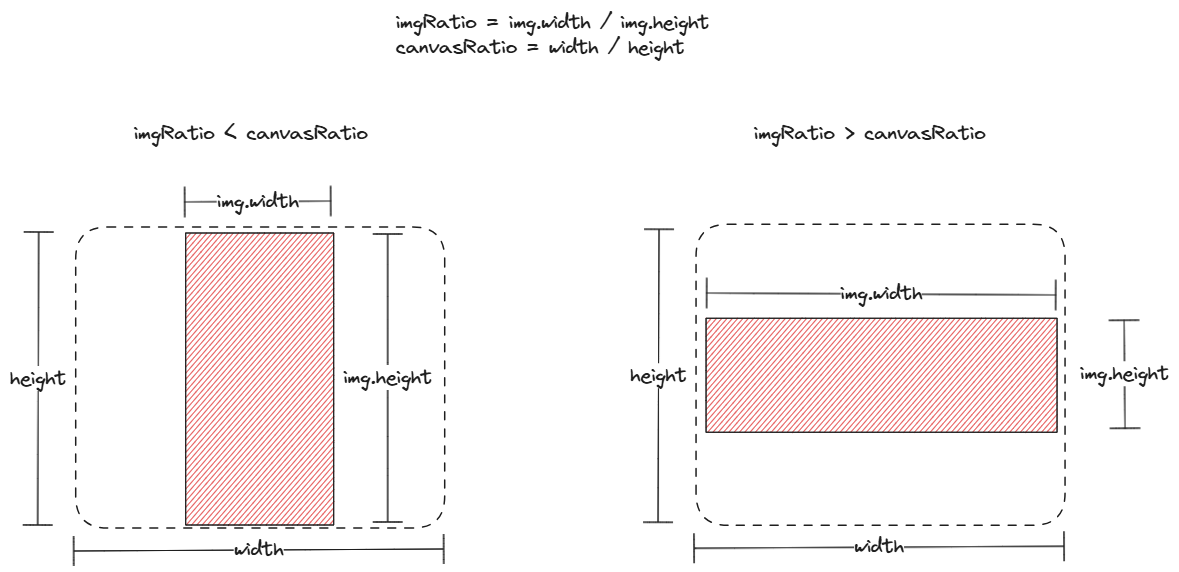
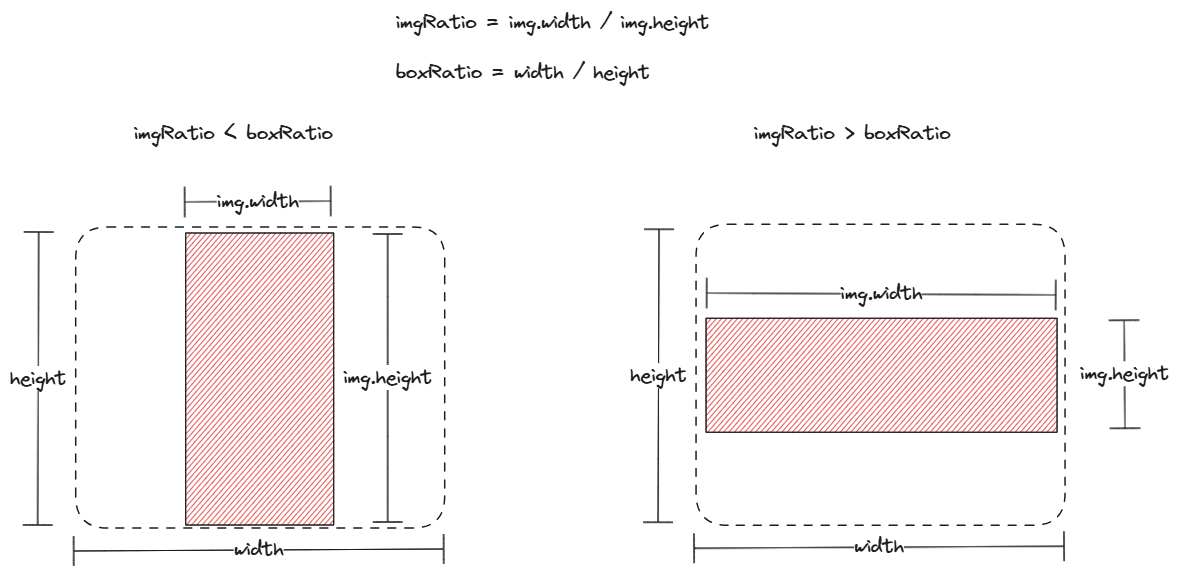
feat: 更新《仿拼多多分享商品，canvas 绘制图片时如何实现 contain 和 cover效果？》

Changed region(s): [[0.3359, 0.0594, 0.5802, 0.1486], [0.7328, 0.208, 0.8244, 0.2675], [0.2137, 0.208, 0.3053, 0.2675]]

diff --git a/blog/2024-07-07-canvas-image/index.md b/blog/2024-07-07-canvas-image/index.md
@@ -1,16 +1,18 @@
 # 仿拼多多分享商品，canvas 绘制图片时如何实现 contain 和 cover 效果？
 
-我们在拼多多、京东小程序里，分享特定商品时，往往能看到如下效果：分享图是一张商品图盖在一张背景图上，且商品图附近还附带相关价格。
+我们偶尔会在一些 H5、小程序中，看到分享商品的功能。比如拼多多小程序中，用户可以把商品分享给自己的好友。分享图有三个主要组成部分，一张背景图、一张商品图和一串价格。其中背景图通常保持不变，商品图、价格则随着商品的改变而改变。
 
 ![](./img/pdd.jpg)
 
-因为不同商品的分享图不一致，所以分享图实际是由 canvas 绘制的。
+这类分享图一般由前端使用 canvas 动态绘制，canvas 也提供了 [drawImage()](https://developer.mozilla.org/zh-CN/docs/Web/API/CanvasRenderingContext2D/drawImage) API 绘制图片。不过，相比 css 实现样式，canvas 实现样式并不方便。
 
-熟悉 CSS 的朋友都知道，CSS 背景设置背景图片 background-size 时，最常用的两种取值分别是 contain 和 cover。
+在 css 中，我们可以给 `background-size` 设置 `contain`，实现「缩放背景图片以**完全装入**容器」效果；可以给 `background-size` 设置 `cover`，实现「缩放背景图片以**完全覆盖**容器」效果。
 
-但 Canvas 2D API 中的 [CanvasRenderingContext2D.drawImage()](https://developer.mozilla.org/zh-CN/docs/Web/API/CanvasRenderingContext2D/drawImage) 方法，并没有提供 contain 和 cover 的绘制模式，所以我们需要自己实现 drawContainImage 和 drawCoverImage。
+![](./img/contain-and-cover.png)
 
-我实现了 drawContainImage 和 drawCoverImage，并用它们绘制了一个分享图，效果如下，其中背景图使用 drawCoverImage 绘制，而商品图则使用 drawCotainImage 绘制：
+但在 canvas 中，并没有原生 API 帮助我们绘制缩放图片，于是我实现了 drawContainImage 和 drawCoverImage 两个工具函数。
+
+本文我会先分析 contain 效果的`图片宽高比`和`容器宽高比`关系，并给出 drawContainImage 工具函数；再分析 cover 效果的`图片宽高比`和`容器宽高比`关系，并给出 drawCoverImage 工具函数；最后我会用两个工具函数，绘制如下分享图（背景图效果是 cover，商品图效果是 contain）：
 
 ![](./img/product.png)
 
@@ -18,17 +20,46 @@
 
 ## contain 效果
 
+先来看 contain 效果。contain 效果是「缩放背景图片以**完全装入**容器」，它会有两种情况：
+
+- 图片宽高比 < 容器宽高比，缩放后图片宽度 < 容器宽度，图片高度 = 容器高度。
+- 图片宽高比 > 容器宽高比，缩放后图片宽度 = 容器宽度，图片高度 < 容器高度。
+
 ![](./img/canvas-contain.png)
+
+不难看出，contain 效果下，图片总是完整展示的，因此我们不必考虑裁剪图片。[drawImage](https://developer.mozilla.org/zh-CN/docs/Web/API/CanvasRenderingContext2D/drawImage) 的 9 个参数中，我们只需要考虑 5 个参数：
+
+> - `image`，画布图像源。
+> - `dx`，image 的左上角在目标画布上 X 轴坐标。
+> - `dy`，image 的左上角在目标画布上 Y 轴坐标。
+> - `dw`，image 在目标画布上绘制的宽度。
+> - `dh`，image 在目标画布上绘制的高度。
 
 ### 图片宽高比 < 容器宽高比
 
+图片宽高比 < 容器宽高比时，dy，dw 和 dh 可以直观看出来，而 dx 还需要单独计算。如下图所示：
+
 ![](./img/canvas-contain-imgRatio-le-canvasRatio.png)
+
+- dx 是 image 的左上角在目标画布上 X 轴坐标，需要按 `dx = (width - dw) / 2` 公式计算；
+- dy 是 image 的左上角在目标画布上 Y 轴坐标，`dy = 0`；
+- dw 是 image 在目标画布上绘制的宽度，知道图片宽高比、容器宽度，可以按 `dw = imgRatio * width` 公式计算；
+- dh 是 image 在目标画布上绘制的高度，直接等于容器高度，`dh = height`。
 
 ### 图片宽高比 > 容器宽高比
 
+图片宽高比 > 容器宽高比时，dx，dw 和 dh 可以直观看出来，而 dy 还需要单独计算。如下图所示：
+
 ![](./img/canvas-contain-imgRatio-ge-canvasRatio.png)
 
+- dx 是 image 的左上角在目标画布上 X 轴坐标，`dx = 0`；
+- dy 是 image 的左上角在目标画布上 Y 轴坐标，需要按 `dy = (height - dh) / 2` 公式计算；
+- dw 是 image 在目标画布上绘制的宽度，直接等于容器宽度，`dw = width`；
+- dh 是 image 在目标画布上绘制的高度，知道图片宽高比，容器高度，可以按 `dh = dw / imgRatio` 公式计算。
+
 ### drawContainImage 代码
+
+下面是 drawContainImage 的代码，因为 contain 效果一般会留有空白，所以我增加了一个 fillStyle 参数，用来设置空白部分的颜色。
 
 ```js
 function drawContainImage({
@@ -38,11 +69,11 @@ function drawContainImage({
     ctx.fillStyle = fillStyle
     ctx.fillRect(x, y, width, height)
   }
-  const canvasRatio = width / height
+  const boxRatio = width / height
   const imgRatio = img.width / img.height
 
   let dx = 0, dy = 0, dw = 0, dh = 0
-  if (imgRatio <= canvasRatio) {
+  if (imgRatio <= boxRatio) {
     dw = imgRatio * width
     dh = height
     dx = (width - dw) / 2
@@ -59,38 +90,69 @@ function drawContainImage({
 
 ## cover 效果
 
+再看 cover 效果，cover 效果是「缩放背景图片以**完全覆盖**容器」。如下示意图所示，缩放后图片（红色部分）比容器（绿色部分）大。它会有两种情况：
+
+- 图片宽高比 > 容器宽高比，缩放后图片宽度 = 容器宽度，图片高度 > 容器高度。
+- 图片宽高比 < 容器宽高比，缩放后图片宽度 < 容器宽度，图片高度 = 容器高度。
+
 ![](./img/canvas-cover.png)
+
+不难看出，contain 效果下，图片总是需要裁剪图片，所以 [drawImage](https://developer.mozilla.org/zh-CN/docs/Web/API/CanvasRenderingContext2D/drawImage) 的 9 个参数我们都需要使用：
+
+> - `image`，画布图像源。
+> - `sx`，image 的矩形（裁剪）选择框的左上角 X 轴坐标。
+> - `sy`，image 的矩形（裁剪）选择框的左上角 Y 轴坐标。
+> - `sw`，image 的矩形（裁剪）选择框的宽度。
+> - `sh`，image的矩形（裁剪）选择框的高度。
+> - `dx`，image 的左上角在目标画布上 X 轴坐标。
+> - `dy`，image 的左上角在目标画布上 Y 轴坐标。
+> - `dw`，image 在目标画布上绘制的宽度。
+> - `dh`，image 在目标画布上绘制的高度。
+
+幸运的是，contain 效果下，dx, dy, dw 和 dh 的取值都是固定的，所以我们需要着重考虑的只有 sx, sy, sw 和 sh 这 4 个参数。
 
 ### 图片宽高比 > 容器宽高比
 
+图片宽高比 > 容器宽高比时，sy，sw 和 sh 可以直观看出来，而 sx 还需要单独计算。如下图所示：
+
 ![](./img/canvas-cover-imgRatio-ge-canvasRatio.png)
+
+- sx 是 image 的矩形（裁剪）选择框的左上角 X 轴坐标，可以按 `sx = (img.width - sw) / 2` 公式计算；
+- sy 是 image 的矩形（裁剪）选择框的左上角 Y 轴坐标，`sy = 0`；
+- sw 是 image 的矩形（裁剪）选择框的宽度，可以按 `sw = sh * boxRatio` 公式计算；
+- sh 是 image的矩形（裁剪）选择框的高度，直接等于图片高度，`sh = img.height`。
 
 ### 图片宽高比 < 容器宽高比
 
+图片宽高比 < 容器宽高比时，sx, sw 和 sh 可以直观看出来，而 sy 还需要单独计算。如下图所示：
+
 ![](./img/canvas-cover-imgRatio-le-canvasRatio.png)
+
+- sx 是 image 的矩形（裁剪）选择框的左上角 X 轴坐标，`sx = 0`；
+- sy 是 image 的矩形（裁剪）选择框的左上角 Y 轴坐标，可以按 `sy = (img.height - sh) / 2` 公式计算；
+- sw 是 image 的矩形（裁剪）选择框的宽度，直接等于图片宽度，`sw = img.width`；
+- sh 是 image的矩形（裁剪）选择框的高度，可以按 `sh = sw / boxRatio` 公式计算。
 
 ### drawCoverImage 代码
 
+下面是 drawCoverImage 的代码，因为 cover 效果不会留空白，所以不需要 fillStyle 参数。
+
 ```js
 function drawCoverImage({
-  ctx, img, x, y, width, height, fillStyle
+  ctx, img, x, y, width, height
 }) {
-  if (fillStyle) {
-    ctx.fillStyle = fillStyle
-    ctx.fillRect(x, y, width, height)
-  }
-  const canvasRatio = width / height
+  const boxRatio = width / height
   const imgRatio = img.width / img.height
 
   let sx = 0, sy = 0, sw = 0, sh = 0
-  if (imgRatio <= canvasRatio) {
+  if (imgRatio <= boxRatio) {
     sw = img.width
-    sh = sw / canvasRatio
+    sh = sw / boxRatio
     sx = 0
     sy = (img.height - sh) / 2
   } else {
     sh = img.height
-    sw = sh * canvasRatio
+    sw = sh * boxRatio
     sx = (img.width - sw) / 2
     sy = 0
   }
